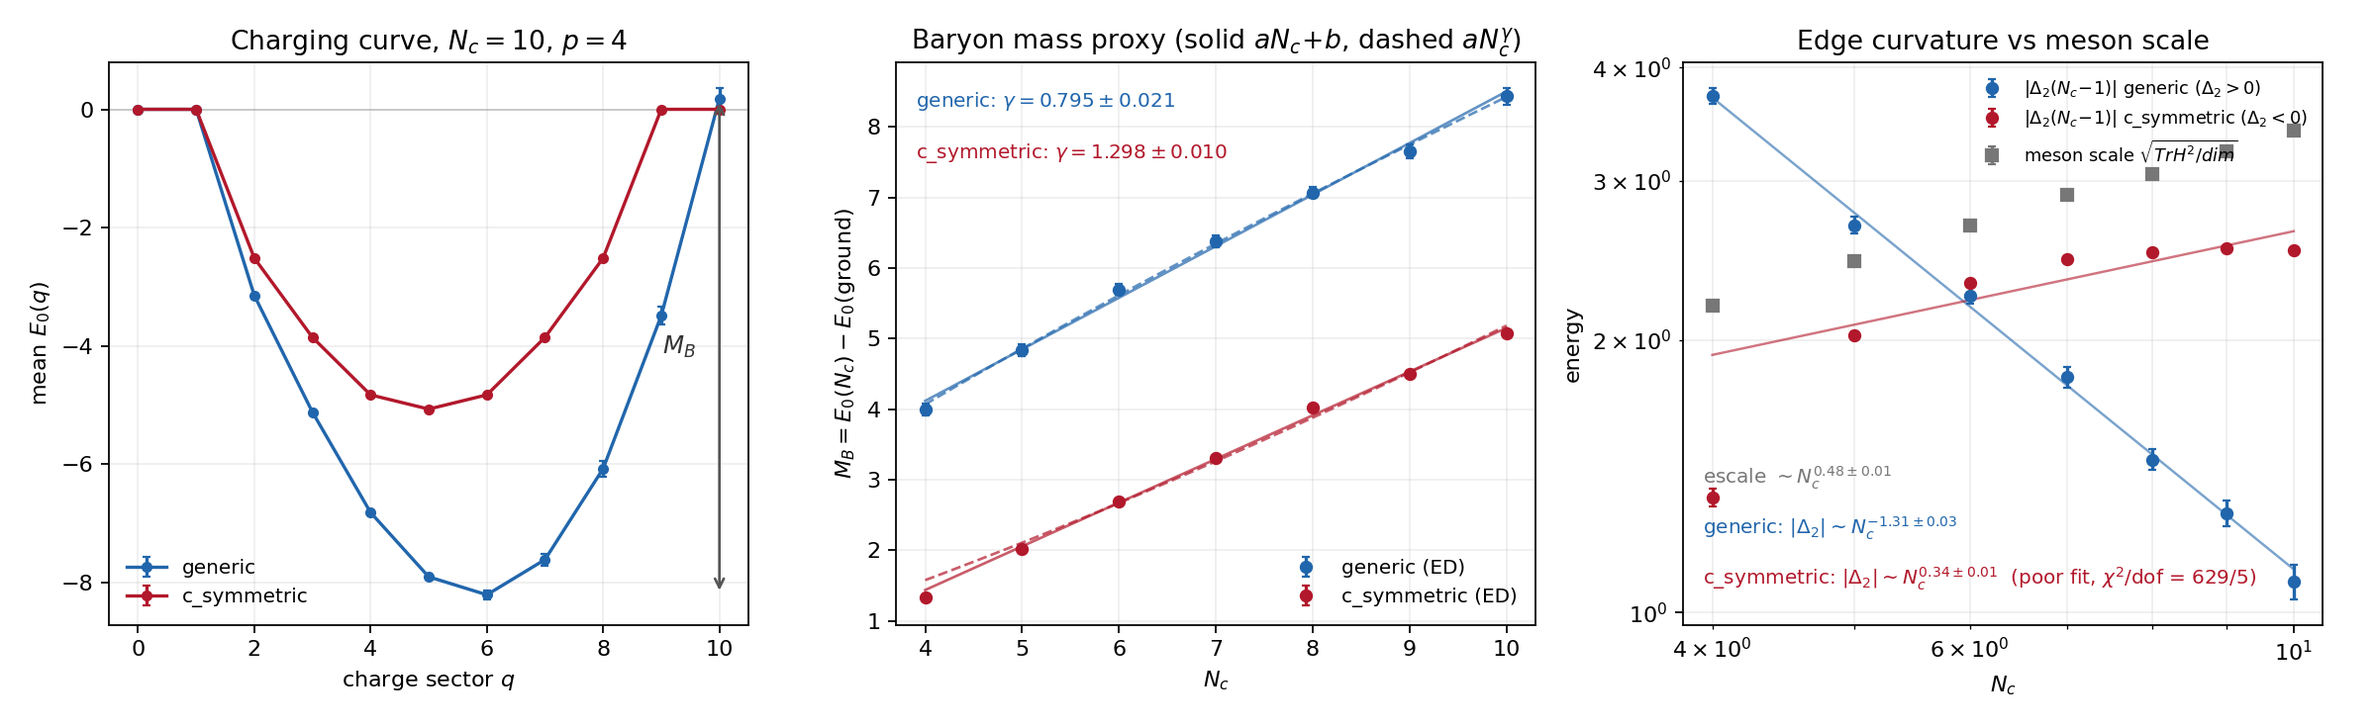
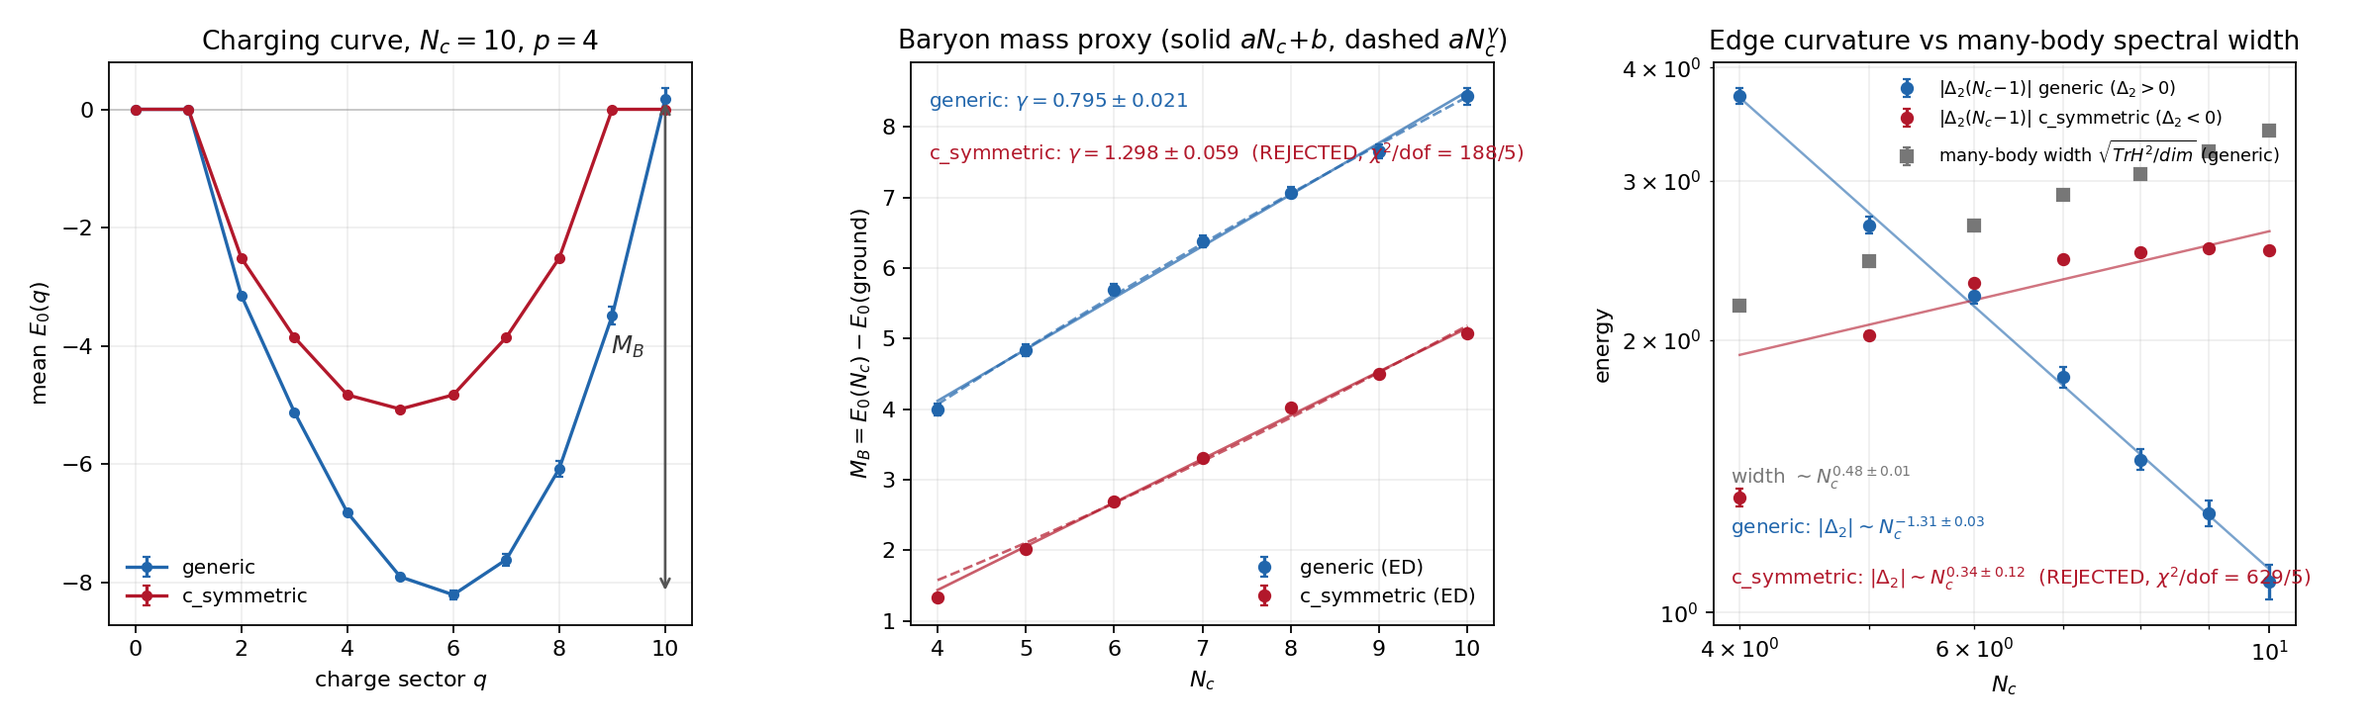
Rung 23 review fixes: honest hierarchy claims, rejected-fit error inflation, spectral-width naming
Addresses the three confirmed review findings on the baryon-sector module:

1. Overstated agreement with the analytic edge estimate.  The docstring
   claimed the measured hierarchy exponents 'agree with' the estimate
   |Delta2| ~ Nc^{-1/2}, escale ~ Nc^{+1/2} => ratio ~ 1/Nc, but the
   generic in-window ratio exponent is -1.79 +- 0.03 (~25 fit-sigma from
   -1) and generic |Delta2| ~ Nc^{-1.31}.  Rewritten: only the QUALITATIVE
   hierarchy (edge curvature falls relative to the width, many sigma, both
   ensembles) is demonstrated in-window; ratio ~ 1/Nc is a plausible
   asymptotic reading, consistent with but NOT established by Nc <= 10.
   The estimate is now supported where it actually holds -- at the level
   of VALUES: new csym_edge_estimate() (heuristic sparse-GOE edge
   -2 sqrt(C(Nc-2,2) sigma^2) for the exact identity Delta2 = E0(2))
   gives measured/estimate rising 0.87 -> 0.94 over Nc = 6..10, and its
   pre-asymptotic peak at Nc = 5 + sqrt(7) ~ 7.65 explains the observed
   in-window |Delta2| saturation.  New __main__ section 5 + JSON block +
   3 tests (formula, peak location, Nc = 8 value bracket).

2. Statistically rejected power-law fits were quoted with raw tiny errors
   (c_symmetric ratio -0.85 +- 0.006 at chi2/dof = 194/5, escale 1.16 +-
   0.008 at 589/5).  power_exponent_fit now returns sqrt(chi2/dof)-inflated
   a_err_scaled/e_err_scaled and a rejected flag (chi2 > 5 dof); every
[…]

diff --git a/syk-self-averaging/baryons.py b/syk-self-averaging/baryons.py
@@ -90,11 +90,22 @@ charge,
 
 the interaction energy of two holes in the baryon.  The sharp testable
 version of "inter-baryon forces are gravitational-strength" is an Nc-scaling
-HIERARCHY: is Delta2 parametrically suppressed in 1/Nc relative to the meson
-(singlet) energy scale escale = sqrt(Tr H^2/dim) ~ sqrt(Nc)?  The module
-measures Delta2(Nc-1) statistics and fits the power law of |mean| and of the
-ratio |Delta2|/escale.  This is a charging-curve statement, NOT a spatial
-force measurement -- stated wherever the numbers are reported.
+HIERARCHY: is Delta2 parametrically suppressed relative to a meson reference
+scale?  The module measures Delta2(Nc-1) statistics and fits the power law
+of |mean| and of the ratio |Delta2|/escale.  This is a charging-curve
+statement, NOT a spatial force measurement -- stated wherever the numbers
+are reported.
+
+Denominator caveat (load-bearing for the headline exponent): the reference
+scale used here, escale = sqrt(Tr H^2/dim), is the TOTAL many-body spectral
+width -- it grows like sqrt(Nc) by the coupling normalization -- and NOT the
+O(1) excitation energy of the M_n meson oscillations that this repo measures
+in mn_spectroscopy.py.  The ratio exponent therefore depends on the
+denominator choice: against the many-body width the asymptotic edge estimate
+reads ratio ~ 1/Nc, while against an O(1) meson excitation energy the same
+estimate reads |Delta2| ~ Nc^{-1/2}.  The QUALITATIVE conclusion -- the edge
+curvature is parametrically suppressed at large Nc under either denominator
+-- is robust to the choice; the specific power is not.
 
 Exact edge structure (derived here, asserted in tests): every H term needs
 B a subset of occ (k modes) and A inside the complement-plus-B, so blocks
@@ -138,22 +149,42 @@ Measured results (p = 4, Nc = 4..10, production run -> baryons.json)
      effective forms differ at this size.  c_symmetric chi2/dof ~ 15 for the
      best model: with SEMs this small the fits RESOLVE finite-size curvature
      beyond any 2-parameter form.
-  *  The hierarchy: |Delta2(Nc-1)|/escale falls like Nc^(-1.79 +- 0.03)
-     (generic; |Delta2| ~ Nc^(-1.31), Delta2 > 0, convex edge) and
-     Nc^(-0.85 +- 0.01) (c_symmetric; Delta2 < 0 exactly = E0(2), concave
-     edge, |Delta2| saturating in-window -- the power-law form is itself
-     rejected there, chi2/dof = 629/5, pre-asymptotic).  Both signs of the
-     suppression agree with the analytic edge estimate |Delta2| ~ Nc^{-1/2},
-     escale ~ Nc^{+1/2} => ratio ~ 1/Nc.  So in the only sense accessible in
-     0+1d the baryon-baryon term IS parametrically 1/Nc-suppressed relative
-     to meson scales -- consistent with the "gravitational-strength" reading,
-     with the sign (attractive vs repulsive analog) ensemble-DEPENDENT and
-     therefore not a robust prediction of the construction.
-  *  Scale check: generic escale ~ Nc^(0.48 +- 0.01) (the designed sqrt(Nc));
-     c_symmetric escale shows Nc^(1.16 +- 0.01) in-window because the
-     disjointness constraint discards an O(p^2/Nc) coupling fraction that is
-     order one at these sizes -- window exponents there are effective, not
-     asymptotic.
+  *  The hierarchy (effective in-window exponents): |Delta2(Nc-1)|/escale
+     falls like Nc^(-1.79 +- 0.03) (generic: good fit, chi2/dof = 5.2/5;
+     |Delta2| ~ Nc^(-1.31 +- 0.03), Delta2 > 0, convex edge) and like
+     Nc^(-0.85 +- 0.04) (c_symmetric: the power-law form is itself REJECTED,
+     chi2/dof = 194/5, error quoted after sqrt(chi2/dof) inflation;
+     Delta2 < 0 exactly = E0(2), concave edge, |Delta2| saturating in-window
+     with its own rejected fit Nc^(+0.34 +- 0.12), chi2/dof = 629/5).
+     What these numbers DEMONSTRATE is the qualitative hierarchy only: the
+     edge curvature falls relative to the many-body width, by many sigma, in
+     both ensembles.  They do NOT confirm the specific asymptotic edge
+     estimate |Delta2| ~ Nc^{-1/2}, escale ~ Nc^{+1/2} => ratio ~ 1/Nc:
+     the generic in-window ratio exponent -1.79 +- 0.03 sits ~25 fit-sigma
+     from -1, generic |Delta2| goes as Nc^{-1.31} not Nc^{-0.5}, and the
+     c_symmetric exponents fail their own fits (pre-asymptotic window).
+     The estimate is supported at the level of VALUES, not window exponents:
+     c_symmetric Delta2 = E0(2) exactly, and the heuristic sparse-GOE edge
+     -2 sqrt(C(Nc-2,2) sigma^2) (csym_edge_estimate) gives -2.68 at Nc = 10
+     vs measured -2.52 +- 0.01, with the measured/estimate ratio rising
+     0.87 -> 0.94 over the production window Nc = 6..10 (0.96 at Nc = 12 in
+     an out-of-window check; approaching 1 from below) and the
+     estimate's pre-asymptotic peak at Nc = 5 + sqrt(7) ~ 7.6 matching the
+     observed in-window saturation of |Delta2|.  So ratio ~ 1/Nc is the
+     plausible ASYMPTOTIC reading, consistent with but NOT established by
+     this window.  In the only sense accessible in 0+1d the baryon-baryon
+     term is parametrically suppressed relative to the many-body width --
+     compatible with the "gravitational-strength" reading (see the
+     denominator caveat above for how the power depends on the reference
+     scale) -- with the sign (attractive vs repulsive analog)
+     ensemble-DEPENDENT and therefore not a robust prediction of the
+     construction.
+  *  Scale check: generic escale ~ Nc^(0.48 +- 0.01) (the designed sqrt(Nc);
+     chi2/dof = 7.6/5); c_symmetric escale shows Nc^(1.16 +- 0.08) in-window
+     (power law REJECTED, chi2/dof = 589/5, error sqrt(chi2/dof)-inflated)
+     because the disjointness constraint discards an O(p^2/Nc) coupling
+     fraction that is order one at these sizes -- ALL c_symmetric window
+     exponents are effective, not asymptotic.
   *  The collapse frequency: measured std(DeltaE) falls from 2.36 (Nc = 4)
      to 1.83 (Nc = 10), tracking sqrt(C(Nc,2)) sigma exactly, while M_B grows
      4.0 -> 8.4: the naive correlator's only frequency and the physical mass
@@ -166,7 +197,13 @@ What is exact vs measured vs conjectured
     Delta2 = E0(2) (c_symmetric); PH palindromy; sector-m2 closed form
     (two routes).
   MEASURED (with error bars): M_B(Nc) statistics and its extensivity fits;
-    Delta2 statistics and scaling; the Delta2/escale hierarchy.
+    Delta2 statistics and scaling; the Delta2/escale hierarchy.  Where a
+    power-law fit is statistically rejected (chi2 > 5 dof) the exponent is
+    reported as an effective in-window slope with sqrt(chi2/dof)-inflated
+    errors, and flagged as rejected in the JSON, the prints, and the figure.
+  HEURISTIC (checked numerically, not proved): the sparse-GOE semicircle
+    edge estimate csym_edge_estimate for the c_symmetric E0(2); the
+    ratio ~ 1/Nc asymptotic reading of the hierarchy built on it.
   CONJECTURED / not tested: any identification of Delta2 with a bulk
     gravitational force; the O(sqrt N)-meson mechanism (needs multi-meson
     states, out of ED reach here); multi-baryon physics (needs >= 2 flavors,
@@ -328,6 +365,28 @@ def sector_m2_closed_form(Nc: int, p: int, q: int, ensemble: str) -> float:
     return sigma2 * tot / comb(Nc, q)
 
 
+def csym_edge_estimate(Nc: int, p: int) -> float:
+    """HEURISTIC sparse-GOE estimate of the c_symmetric edge curvature,
+    which equals E0(k) exactly (k = p/2; for p = 4 that is Delta2(Nc-1) =
+    E0(2)).  The q = k sector Hamiltonian is a C(Nc,k) x C(Nc,k) real
+    symmetric matrix with zero diagonal whose row (state S, |S| = k) has one
+    independent N(0, sigma^2) entry for each k-subset A disjoint from S,
+    i.e. row variance R = C(Nc-k, k) sigma^2; the semicircle edge is then
+
+        E0(k) ~ -2 sqrt(R) = -2 sqrt(C(Nc-k, k) sigma^2).
+
+    This is an asymptotic heuristic (finite degree, sparse), NOT exact: the
+    measured mean E0(2) approaches it from below, ratio 0.87 -> 0.94 over
+    the production window Nc = 6..10 and 0.96 at Nc = 12
+    (test_baryons.py checks the value at Nc = 8).  For p = 4 the estimate
+    peaks at Nc = 5 + sqrt(7) ~ 7.65 before its asymptotic Nc^{-1/2} decay
+    -- matching the observed in-window saturation of |Delta2| -- because
+    sigma^2 = 4 * 2^4 / Nc^3 while C(Nc-2, 2) ~ Nc^2 / 2."""
+    k = p // 2
+    return -2.0 * float(np.sqrt(comb(Nc - k, k)
+                                * coupling_variance_dirac(Nc, p)))
+
+
 # --------------------------------------------------------------------------
 # charging curve, per-instance observables, ensemble statistics
 # --------------------------------------------------------------------------
@@ -346,8 +405,10 @@ def charging_curve(H: np.ndarray, Nc: int):
 
 def instance_observables(Nc: int, p: int, seed: int, ensemble: str) -> dict:
     """One disorder instance: charging curve E0(q), baryon mass proxy
-    M_B = E0(Nc) - min_q E0(q), edge curvature Delta2(Nc-1), meson (singlet)
-    scale escale = sqrt(Tr H^2/dim), and the collapse frequency DeltaE."""
+    M_B = E0(Nc) - min_q E0(q), edge curvature Delta2(Nc-1), many-body
+    spectral width escale = sqrt(Tr H^2/dim) (NOT the O(1) meson excitation
+    scale -- see the denominator caveat in the module docstring), and the
+    collapse frequency DeltaE."""
     rng = np.random.default_rng(seed)
     couplings = draw_couplings(Nc, p, rng, ensemble)
     H = dirac_hamiltonian(Nc, p, couplings=couplings)
@@ -444,7 +505,16 @@ def fit_mass_models(ns, ys, errs) -> dict:
 def power_exponent_fit(ns, ys, errs) -> dict:
     """Power-law a*Nc^e fit (weighted); used for the Delta2 / escale / ratio
     scalings.  ys must be positive -- callers pass |mean| and report the sign
-    separately."""
+    separately.
+
+    Honesty bookkeeping: the raw covariance errors (a_err, e_err) assume the
+    power-law form is CORRECT.  When the fit is statistically rejected
+    (chi2 >> dof) they understate the model uncertainty by ~sqrt(chi2/dof),
+    so the dict also carries a_err_scaled / e_err_scaled -- the standard
+    sqrt(chi2/dof) inflation, floored at 1 -- and a boolean 'rejected'
+    (chi2 > 5 dof, the same criterion the figure uses).  Every consumer that
+    QUOTES an exponent must quote the scaled error and flag rejection; a
+    rejected fit's exponent is an effective in-window slope, not a law."""
     ns = np.asarray(ns, float)
     ys = np.asarray(ys, float)
     errs = np.asarray(errs, float)
@@ -453,9 +523,13 @@ def power_exponent_fit(ns, ys, errs) -> dict:
                            absolute_sigma=True, maxfev=20000)
     perr = np.sqrt(np.diag(pcov))
     chi2 = float(np.sum(((ys - f(ns, *popt)) / errs) ** 2))
+    dof = len(ns) - 2
+    scale = max(1.0, float(np.sqrt(chi2 / dof))) if dof > 0 else 1.0
     return dict(a=float(popt[0]), e=float(popt[1]),
                 a_err=float(perr[0]), e_err=float(perr[1]),
-                chi2=chi2, dof=len(ns) - 2)
+                a_err_scaled=float(perr[0]) * scale,
+                e_err_scaled=float(perr[1]) * scale,
+                chi2=chi2, dof=dof, rejected=bool(chi2 > 5.0 * dof))
 
 
 # --------------------------------------------------------------------------
@@ -509,9 +583,15 @@ def make_figure(rows: dict, fits: dict, scal: dict, path: Path, p: int):
         axB.plot(nn, pw[0] * nn ** pw[1], "--", lw=1.2, color=COLORS[ens],
                  alpha=0.7)
         ge = fits[ens]["a*Nc^gamma"]
+        # honesty: sqrt(chi2/dof)-inflate the quoted gamma error and flag
+        # statistically rejected fits (same policy as power_exponent_fit)
+        gsc = max(1.0, np.sqrt(ge["chi2"] / ge["dof"]))
+        gbad = ge["chi2"] > 5 * ge["dof"]
         axB.text(0.03, 0.95 - 0.09 * (ens == "c_symmetric"),
                  rf"{ens}: $\gamma = {ge['params'][1]:.3f} \pm "
-                 rf"{ge['param_errs'][1]:.3f}$",
+                 rf"{ge['param_errs'][1] * gsc:.3f}$"
+                 + (rf"  (REJECTED, $\chi^2$/dof = {ge['chi2']:.0f}/"
+                    rf"{ge['dof']})" if gbad else ""),
                  transform=axB.transAxes, fontsize=9, va="top",
                  color=COLORS[ens])
     axB.set_xlabel("$N_c$")
@@ -536,28 +616,30 @@ def make_figure(rows: dict, fits: dict, scal: dict, path: Path, p: int):
         nn = np.linspace(ns[0], ns[-1], 50)
         axC.plot(nn, s["a"] * nn ** s["e"], "-", lw=1.1, color=COLORS[ens],
                  alpha=0.6)
-        # honesty: flag power-law fits the data statistically reject
-        bad = s["chi2"] > 5 * s["dof"]
+        # honesty: scaled errors everywhere; flag statistically rejected fits
         axC.text(0.03, 0.16 - 0.09 * (ens == "c_symmetric"),
                  rf"{ens}: $|\Delta_2| \sim N_c^{{{s['e']:.2f} \pm "
-                 rf"{s['e_err']:.2f}}}$"
-                 + (rf"  (poor fit, $\chi^2$/dof = {s['chi2']:.0f}/"
-                    rf"{s['dof']})" if bad else ""),
+                 rf"{s['e_err_scaled']:.2f}}}$"
+                 + (rf"  (REJECTED, $\chi^2$/dof = {s['chi2']:.0f}/"
+                    rf"{s['dof']})" if s["rejected"] else ""),
                  transform=axC.transAxes, fontsize=9, color=COLORS[ens])
     ns = np.array([r["Nc"] for r in rows["generic"]], float)
     esc = np.array([r["escale_mean"] for r in rows["generic"]])
     esce = np.array([r["escale_sem"] for r in rows["generic"]])
     axC.errorbar(ns, esc, yerr=esce, fmt="s", ms=5, capsize=2,
-                 color="#777777", label=r"meson scale $\sqrt{Tr H^2/dim}$")
+                 color="#777777",
+                 label=r"many-body width $\sqrt{Tr H^2/dim}$ (generic)")
     se = scal["generic"]["escale"]
-    axC.text(0.03, 0.25, rf"escale $\sim N_c^{{{se['e']:.2f} \pm "
-             rf"{se['e_err']:.2f}}}$", transform=axC.transAxes, fontsize=9,
-             color="#777777")
+    axC.text(0.03, 0.25, rf"width $\sim N_c^{{{se['e']:.2f} \pm "
+             rf"{se['e_err_scaled']:.2f}}}$"
+             + (rf"  (REJECTED, $\chi^2$/dof = {se['chi2']:.0f}/"
+                rf"{se['dof']})" if se["rejected"] else ""),
+             transform=axC.transAxes, fontsize=9, color="#777777")
     axC.set_xscale("log")
     axC.set_yscale("log")
     axC.set_xlabel("$N_c$")
     axC.set_ylabel("energy")
-    axC.set_title("Edge curvature vs meson scale")
+    axC.set_title("Edge curvature vs many-body spectral width")
     axC.legend(frameon=False, fontsize=8, loc="upper right")
     axC.grid(True, which="both", alpha=0.2)
 
@@ -629,8 +711,11 @@ if __name__ == "__main__":
                   f"{d['chi2']:.1f}/{d['dof']}  AIC = {d['aic']:7.1f}")
         print(f"    -> {fit_verdict(f)}")
 
-    print("\n4. The hierarchy: Delta2 vs the meson (singlet) scale")
+    print("\n4. The hierarchy: Delta2 vs the many-body spectral width")
     print("-" * 74)
+    print("  (errors on exponents are sqrt(chi2/dof)-inflated where the fit")
+    print("   fails; REJECTED = chi2 > 5 dof: exponent is an effective")
+    print("   in-window slope, not a law)")
     scal = {}
     for ens in rows:
         ns = [r["Nc"] for r in rows[ens]]
@@ -651,22 +736,53 @@ if __name__ == "__main__":
         s = scal[ens]
         print(f"  {ens}: Delta2 mean is {sgn}"
               + (f" ({insignif} pts < 2 sigma from 0)" if insignif else ""))
-        print(f"    |Delta2|        ~ Nc^({s['delta2']['e']:+.2f} ± "
-              f"{s['delta2']['e_err']:.2f})   chi2/dof = "
-              f"{s['delta2']['chi2']:.1f}/{s['delta2']['dof']}")
-        print(f"    escale          ~ Nc^({s['escale']['e']:+.2f} ± "
-              f"{s['escale']['e_err']:.2f})")
-        print(f"    |Delta2|/escale ~ Nc^({s['ratio']['e']:+.2f} ± "
-              f"{s['ratio']['e_err']:.2f})")
+        for label, key in (("|Delta2|       ", "delta2"),
+                           ("escale (width) ", "escale"),
+                           ("|Delta2|/escale", "ratio")):
+            d = s[key]
+            print(f"    {label} ~ Nc^({d['e']:+.2f} ± "
+                  f"{d['e_err_scaled']:.2f})   chi2/dof = "
+                  f"{d['chi2']:.1f}/{d['dof']}"
+                  + ("   REJECTED (in-window slope only)"
+                     if d["rejected"] else ""))
     print("\n  Reading (charging-curve proxy, NOT a spatial force): the edge")
-    print("  curvature is parametrically suppressed relative to the meson scale")
-    print("  iff the ratio exponent is < 0 by many sigma; see numbers above.")
+    print("  curvature falls relative to the many-body width by many sigma in")
+    print("  both ensembles -- that QUALITATIVE hierarchy is the demonstrated")
+    print("  result.  The specific asymptotic estimate ratio ~ 1/Nc is NOT")
+    print("  confirmed in-window: the generic ratio exponent "
+          f"({scal['generic']['ratio']['e']:+.2f}) sits "
+          f"{abs(scal['generic']['ratio']['e'] + 1.0) / scal['generic']['ratio']['e_err_scaled']:.0f} "
+          "fit-sigma from -1,")
+    print("  and the c_symmetric fits are rejected (pre-asymptotic window).")
+
+    print("\n5. The c_symmetric edge VALUE vs the heuristic sparse-GOE estimate")
+    print("-" * 74)
+    print("  Delta2 = E0(2) exactly; estimate = -2 sqrt(C(Nc-2,2) sigma^2);")
+    print(f"  estimate peaks at Nc = 5 + sqrt(7) = {5 + np.sqrt(7):.2f} "
+          "(the in-window saturation).")
+    edge_rows = []
+    for r in rows["c_symmetric"]:
+        est = csym_edge_estimate(r["Nc"], p)
+        edge_rows.append(dict(Nc=r["Nc"], estimate=est,
+                              measured=r["delta2_mean"],
+                              measured_sem=r["delta2_sem"],
+                              ratio=r["delta2_mean"] / est))
+        print(f"    Nc={r['Nc']:>2}: estimate {est:+.4f}   measured "
+              f"{r['delta2_mean']:+.4f} ± {r['delta2_sem']:.4f}   "
+              f"ratio {r['delta2_mean'] / est:.3f}")
+    print("  -> values consistent (ratio -> 1 from below); the window's")
+    print("     effective exponents are NOT (see section 4): ratio ~ 1/Nc is")
+    print("     an asymptotic reading, unestablished at Nc <= 10.")
 
     out = dict(meta=dict(p=p, n_inst=N_INST, ensembles=list(rows),
                          description="rung 23 baryon-sector ED, see "
                                      "baryons.py docstring"),
                collapse_demo=collapse, rows=rows, fits_MB=fits,
-               scalings=scal)
+               scalings=scal,
+               csym_edge_estimate=dict(
+                   formula="-2*sqrt(C(Nc-2,2)*sigma^2), heuristic "
+                           "sparse-GOE edge; peak at Nc = 5 + sqrt(7)",
+                   peak_Nc=float(5 + np.sqrt(7)), rows=edge_rows))
     here = Path(__file__).resolve().parent
     with open(here / "baryons.json", "w") as fh:
         json.dump(out, fh, indent=1)

diff --git a/syk-self-averaging/test_baryons.py b/syk-self-averaging/test_baryons.py
@@ -19,7 +19,7 @@ from dirac import (apply_monomial, coupling_variance_dirac,
                    dirac_hamiltonian, dirac_hamiltonian_reference,
                    draw_couplings)
 from baryons import (baryon_correlator_ed, baryon_dagger, baryon_sign,
-                     charging_curve, dense_sector_blocks,
+                     charging_curve, csym_edge_estimate, dense_sector_blocks,
                      deltaE_from_couplings, ensemble_run, fit_mass_models,
                      instance_observables, power_exponent_fit,
                      reassemble_dense, sector_hamiltonian, sector_m2_enumerate,
@@ -267,6 +267,62 @@ def test_fit_models_on_synthetic_data():
         warnings.simplefilter("ignore", OptimizeWarning)
         p = power_exponent_fit(ns, 5.0 * ns ** -1.5, 0.001 * ns ** -1.5)
     assert abs(p["e"] + 1.5) < 1e-6
+
+
+def test_power_fit_honesty_bookkeeping():
+    """The rejected flag and sqrt(chi2/dof)-inflated errors that every
+    consumer must quote: a perfect power law is not rejected and keeps its
+    raw errors (scale floored at 1); saturating data with tiny error bars
+    reject the power-law form (chi2 >> 5 dof) and inflate the exponent error
+    by exactly sqrt(chi2/dof)."""
+    import warnings
+    from scipy.optimize import OptimizeWarning
+    ns = np.array([4, 5, 6, 7, 8, 9, 10], float)
+    with warnings.catch_warnings():
+        warnings.simplefilter("ignore", OptimizeWarning)
+        good = power_exponent_fit(ns, 5.0 * ns ** -1.5, 0.001 * ns ** -1.5)
+    assert not good["rejected"]
+    assert good["e_err_scaled"] == good["e_err"]     # scale floored at 1
+    bad = power_exponent_fit(ns, 3.0 - 5.0 / ns, 0.001 * np.ones_like(ns))
+    assert bad["rejected"] and bad["chi2"] > 5 * bad["dof"]
+    scale = np.sqrt(bad["chi2"] / bad["dof"])
+    assert abs(bad["e_err_scaled"] - bad["e_err"] * scale) < 1e-12
+    assert abs(bad["a_err_scaled"] - bad["a_err"] * scale) < 1e-12
+
+
+def test_csym_edge_estimate_formula_and_peak():
+    """csym_edge_estimate = -2 sqrt(C(Nc-2,2) sigma^2) (p = 4), and its
+    pre-asymptotic peak sits at Nc = 5 + sqrt(7) ~ 7.65 (the root of
+    d/dNc [(Nc-2)(Nc-3)/Nc^3] = 0), which is what makes the in-window
+    |Delta2| saturation expected rather than anomalous."""
+    for Nc in (6, 8, 10, 12):
+        exact = -2.0 * np.sqrt(comb(Nc - 2, 2)
+                               * coupling_variance_dirac(Nc, 4))
+        assert abs(csym_edge_estimate(Nc, 4) - exact) < 1e-14
+    # continuous-Nc peak of |estimate|^2 ~ (n-2)(n-3)/n^3
+    n = np.linspace(4.0, 20.0, 16001)
+    mag2 = (n - 2) * (n - 3) / n ** 3
+    n_peak = n[np.argmax(mag2)]
+    assert abs(n_peak - (5.0 + np.sqrt(7.0))) < 2e-3
+
+
+def test_csym_edge_estimate_brackets_measured_e0():
+    """The heuristic sparse-GOE edge is an ASYMPTOTIC bound-like estimate:
+    the measured mean E0(2) (= Delta2 exactly) approaches it from below.  At
+    Nc = 8 the measured/estimate ratio is ~0.91 (rising 0.87 -> 0.94 over
+    Nc = 6..10); assert it lands in (0.85, 0.97) with 100 draws -- i.e. the
+    VALUE is consistent at the +-10% level while the in-window exponents are
+    not asymptotic (that mismatch is reported honestly in the docstring)."""
+    Nc, p, n = 8, 4, 100
+    k = p // 2
+    est = csym_edge_estimate(Nc, p)
+    e0s = []
+    for j in range(n):
+        rng = np.random.default_rng(6000 + j)
+        coup = draw_couplings(Nc, p, rng, "c_symmetric")
+        e0s.append(np.linalg.eigvalsh(sector_hamiltonian(Nc, coup, k))[0])
+    ratio = float(np.mean(e0s)) / est
+    assert 0.85 < ratio < 0.97
 
 
 # --------------------------------------------------------------------------
